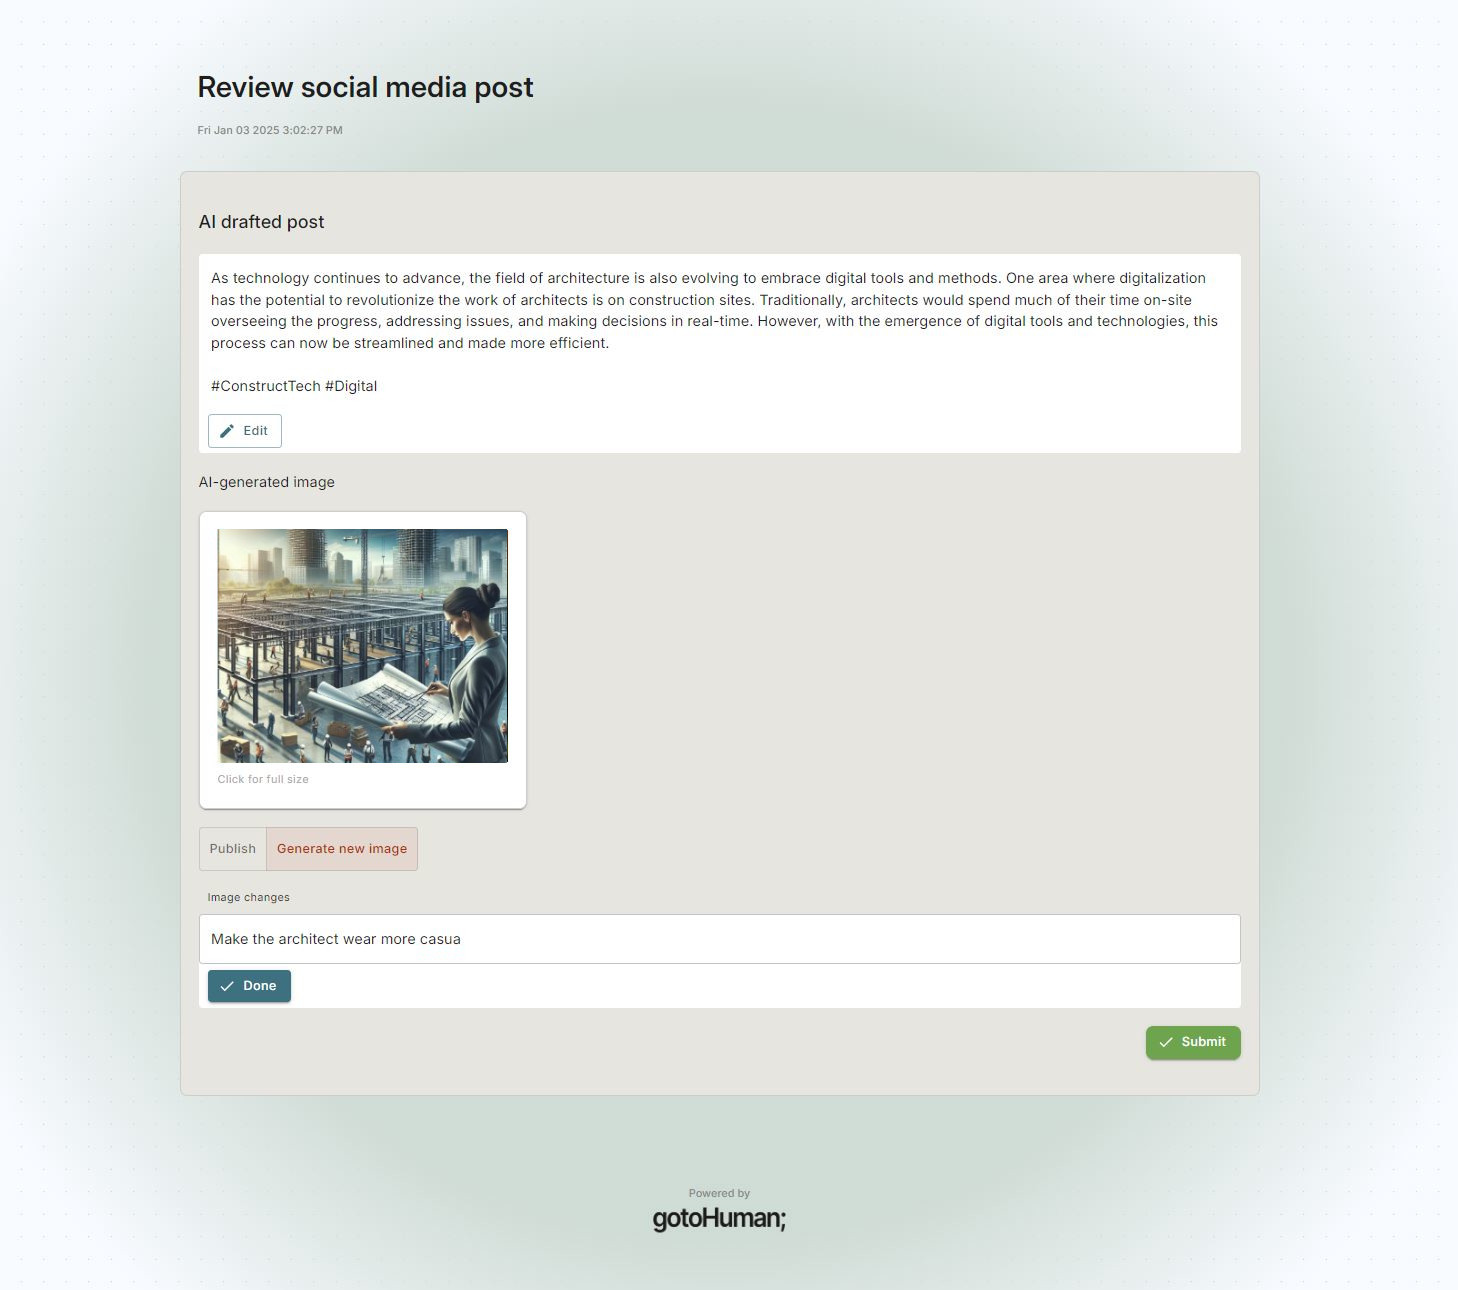
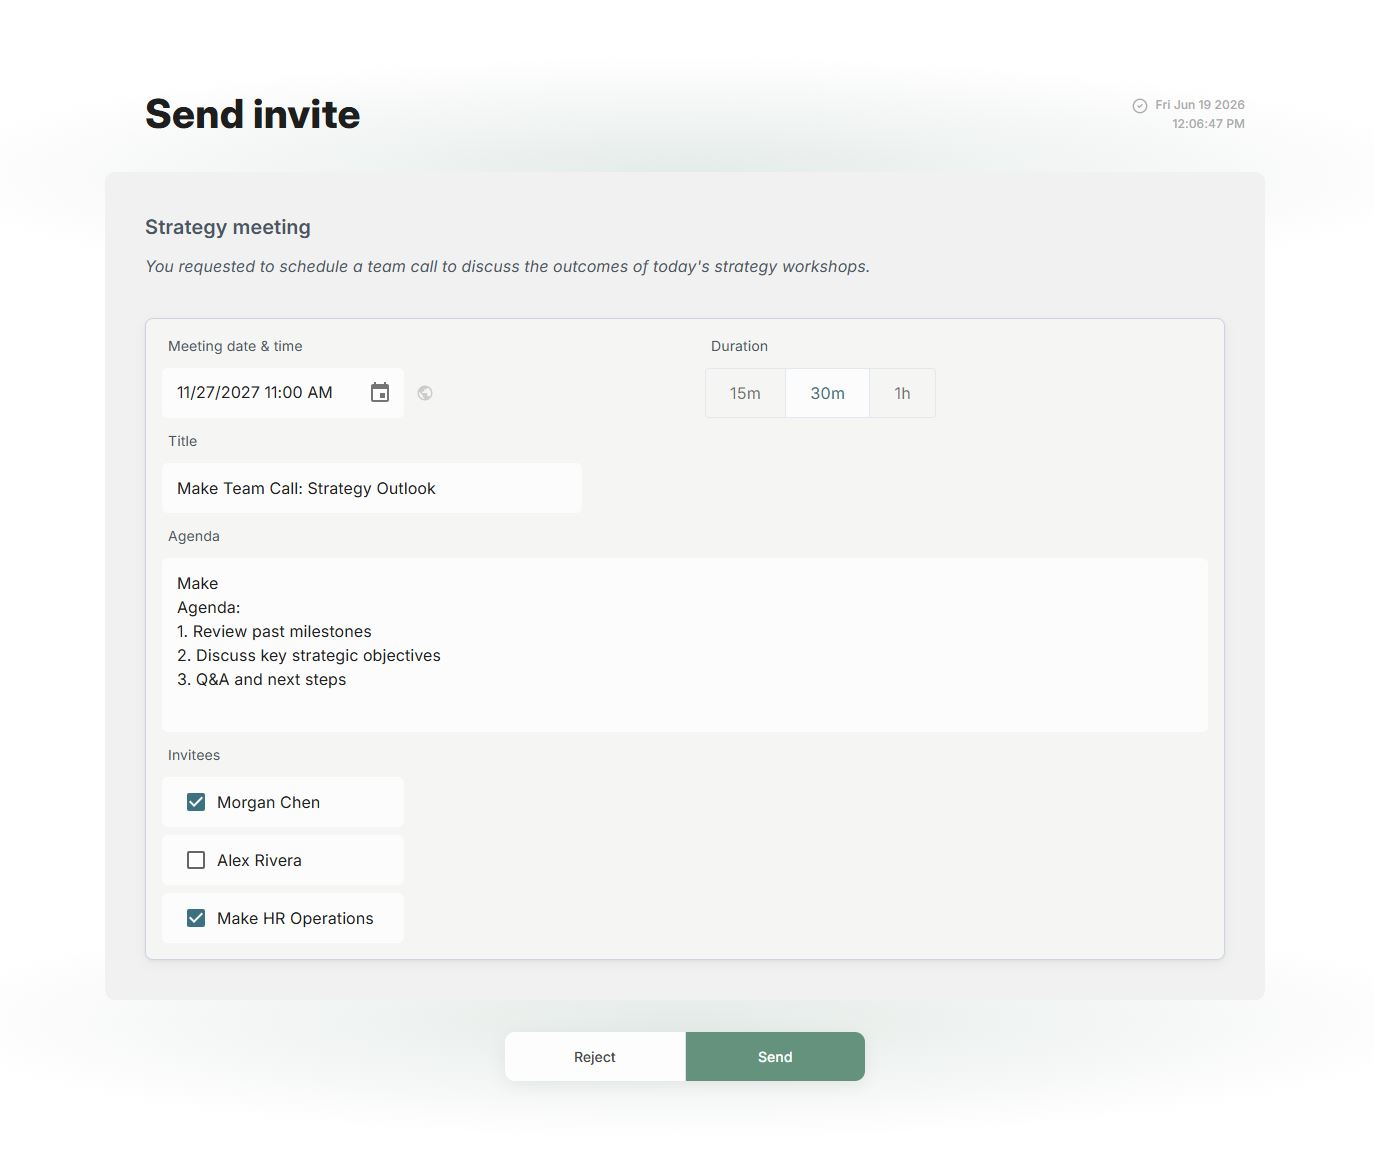
Update readme

diff --git a/README.md b/README.md
@@ -21,37 +21,35 @@ Set up a fully customized review step capturing any relevant data (text, images,
 
 ### Init
 
+Set environment variables with your gotoHuman API key and the ID of your [agent](https://docs.gotohuman.com/agent-setup):
+
+```bash
+GOTOHUMAN_API_KEY=YOUR_API_KEY
+GOTOHUMAN_AGENT_ID=YOUR_AGENT_ID
 ```
-const gotoHuman = new GotoHuman(GOTOHUMAN_API_KEY)
+
+```js
+import { GotoHuman } from 'gotohuman'
+
+const gotoHuman = new GotoHuman()
 ```
 
 ### Send request
 
 [Read the docs](https://docs.gotohuman.com/send-requests) for more details.
 
-Pass the review template ID from your gotoHuman dashboard.
+Pass the ID of the review type created in gotoHuman.
 
 Example request:
-```
-const reviewRequest = gotoHuman.createReview(GOTOHUMAN_TEMPLATE_ID)
-    .setReviewData({
-        exampleField1: value1,
-        exampleField2: value2,
-    })
-    .addMetaData("threadId", threadId)
-    .assignToUsers(["jess@acme.org"])
-await reviewRequest.sendRequest()
-```
+```js
+const reviewRequest = gotoHuman.createReview("YOUR_REVIEW_TYPE_ID")
+  .setReviewData({
+    "example1": "value1",
+    "example2": true,
+  })
+  .setReviewConfig({...})
+  .setMetaData({...})
 
-Optionally, set config, title, webhook URL, auto-approve flag, or workflow info on the request:
-```
-const reviewRequest = gotoHuman.createReview(GOTOHUMAN_TEMPLATE_ID)
-    .setReviewData({ ... })
-    .setReviewConfig({ someConfigKey: "value" })
-    .setTitle("Review AI draft")
-    .setWebhookUrl("https://your-app.com/webhook")
-    .setAutoApprove(false)
-    .setWorkflowInfo({ runId: "abc123" })
 await reviewRequest.sendRequest()
 ```
 
